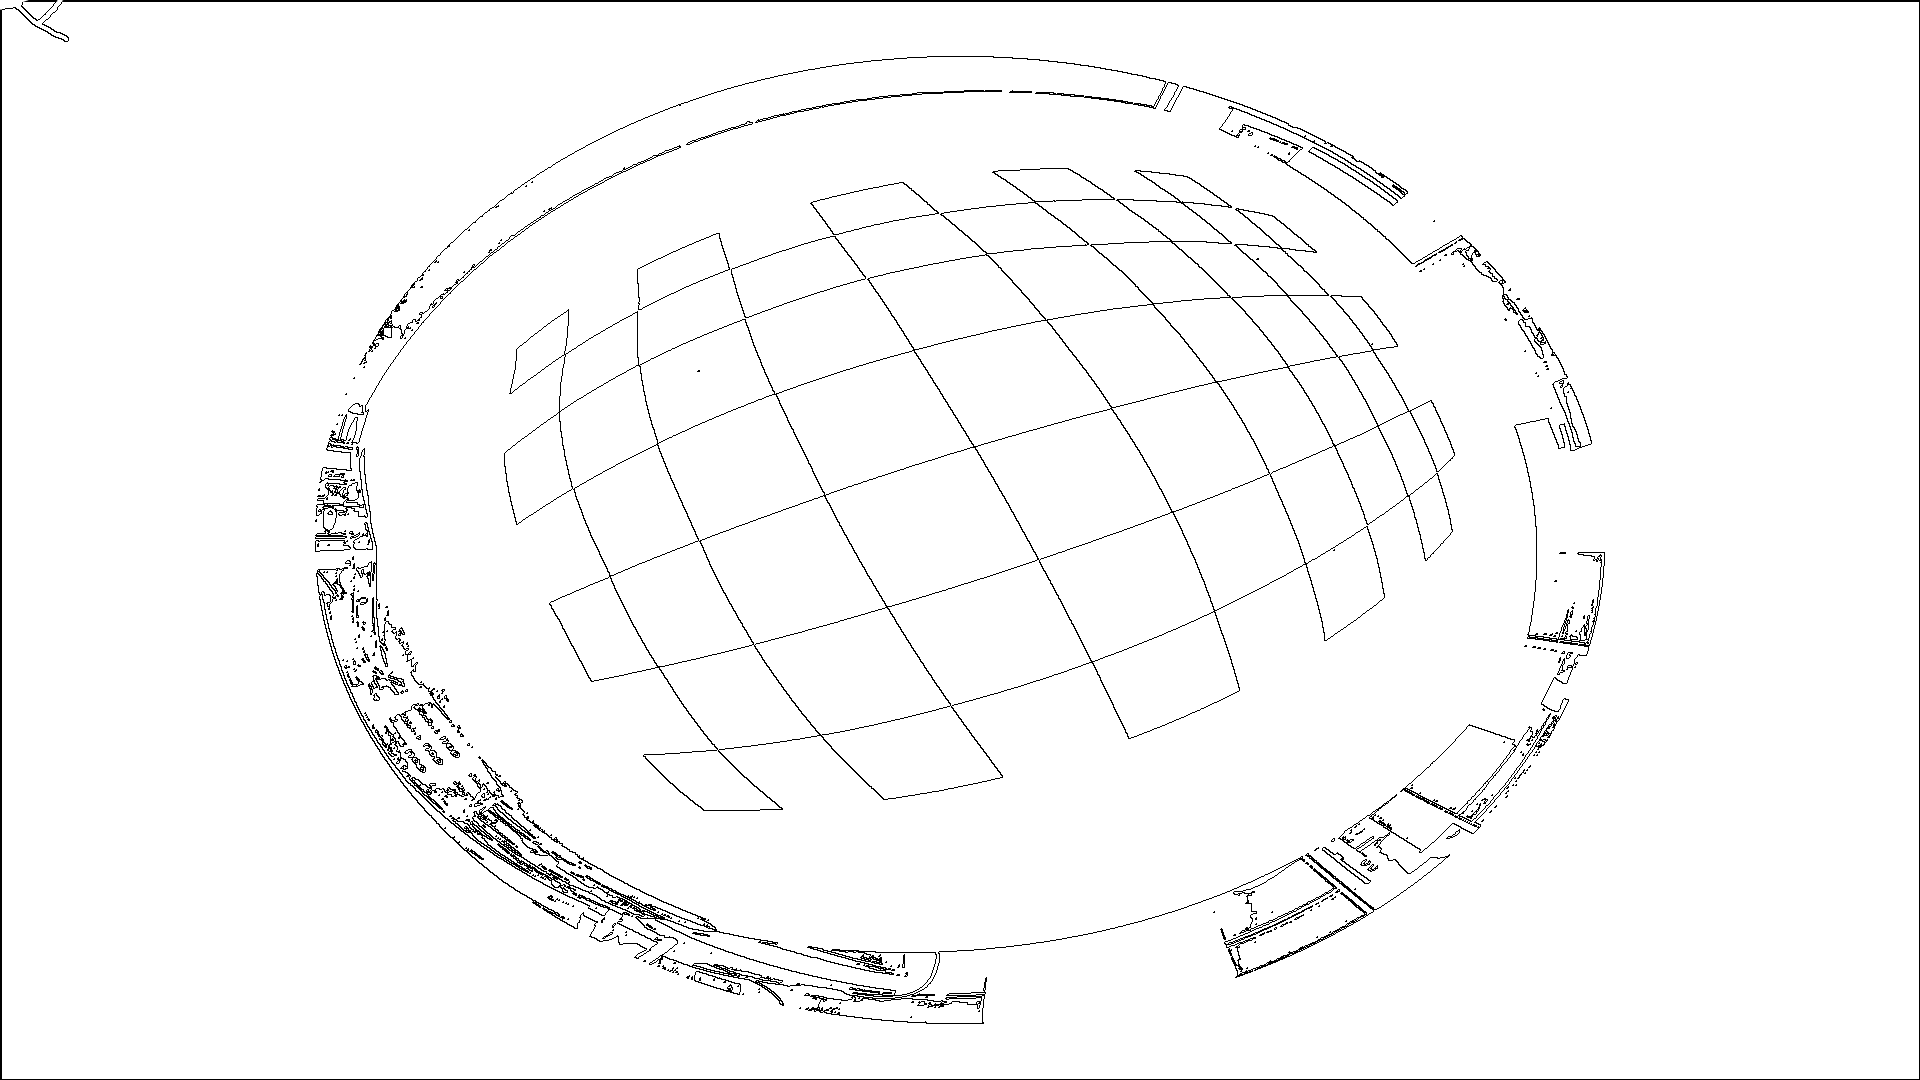
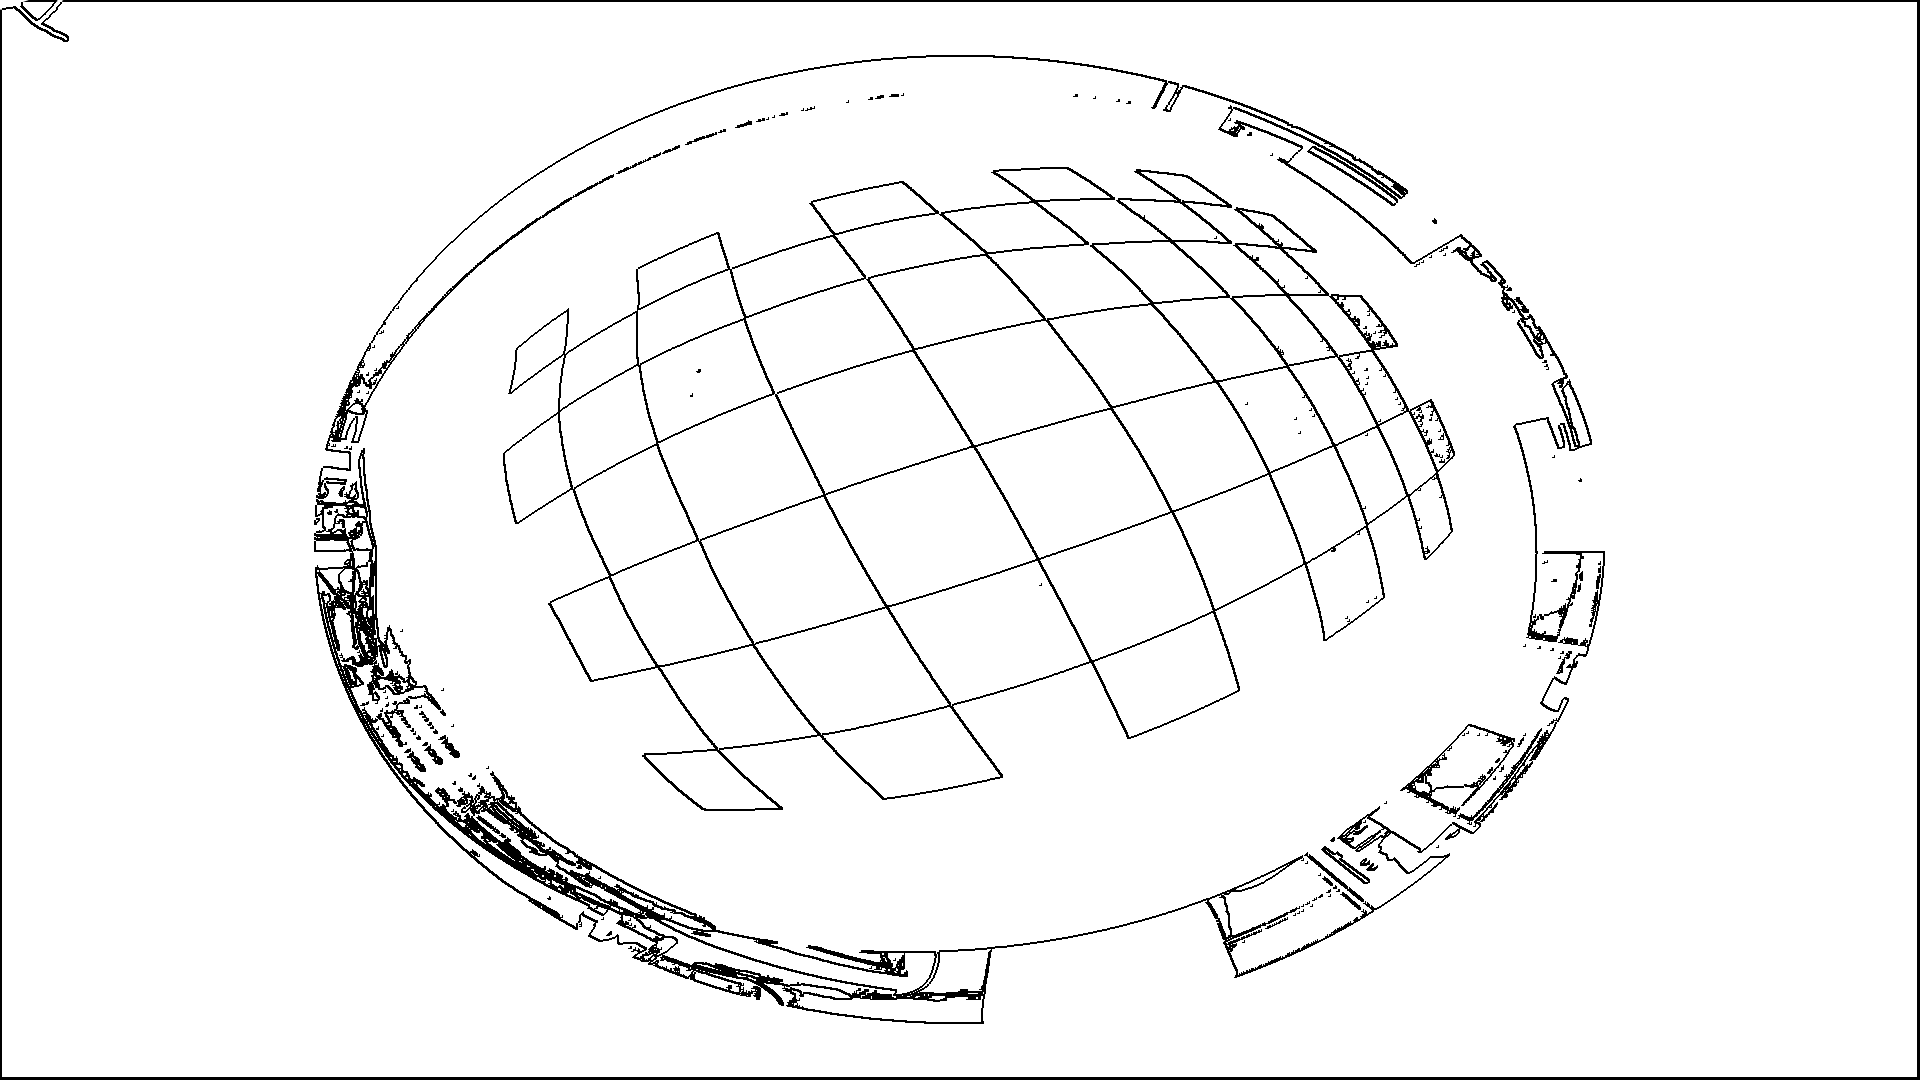
Black/white good picture. Using only top and right ( border + 2 )

diff --git a/src/S23989_p04.java b/src/S23989_p04.java
@@ -26,14 +26,14 @@ public class S23989_p04 {
         int height = img.getHeight();
         int[][] matrix = new int [height][width];
         StringBuilder result = new StringBuilder("");
-        for (int y = 2; y < height-1; y++) {
-            for (int x = 2; x < width-1; x++) {
+        for (int y = 2; y < height-3; y++) {
+            for (int x = 2; x < width-3; x++) {
                 int p = img.getRGB(x,y);
                 matrix[y][x] = p;
                 int pRight = img.getRGB(x+1,y);
-                //int pLeft = img.getRGB(x-1,y);
+                int pRight2 = img.getRGB(x+2,y);
                 int pTop = img.getRGB(x,y+1);
-                //int pDown = img.getRGB(x, y-1);
+                int pTop2 = img.getRGB(x, y+2);
                 int lowBlack = -16777216;
                 int highBlack = -11111111;
                 int lowWhite = -11111111;
@@ -42,9 +42,14 @@ public class S23989_p04 {
                 if ((((p >= lowBlack && p < highBlack) && (pRight <= highWhite && pRight >= lowWhite )) ||
                         ((pRight >= lowBlack && pRight < highBlack) && (p <= highWhite && p >= lowWhite))) ||
 
+                    (((p >= lowBlack && p < highBlack) && (pRight2 <= highWhite && pRight2 >= lowWhite )) ||
+                            ((pRight2 >= lowBlack && pRight2 < highBlack) && (p <= highWhite && p >= lowWhite))) ||
+
                 (((p >= lowBlack && p < highBlack) && (pTop <= highWhite && pTop >= lowWhite )) ||
-                        ((pTop >= lowBlack && pTop < highBlack) && (p <= highWhite && p >= lowWhite)))
-                )
+                        ((pTop >= lowBlack && pTop < highBlack) && (p <= highWhite && p >= lowWhite))) ||
+
+                (((p >= lowBlack && p < highBlack) && (pTop2 <= highWhite && pTop2 >= lowWhite )) ||
+                        ((pTop2 >= lowBlack && pTop2 < highBlack) && (p <= highWhite && p >= lowWhite))))
 
                 {
                     result.append("[").append(x).append(", ").append(y).append("], ");
